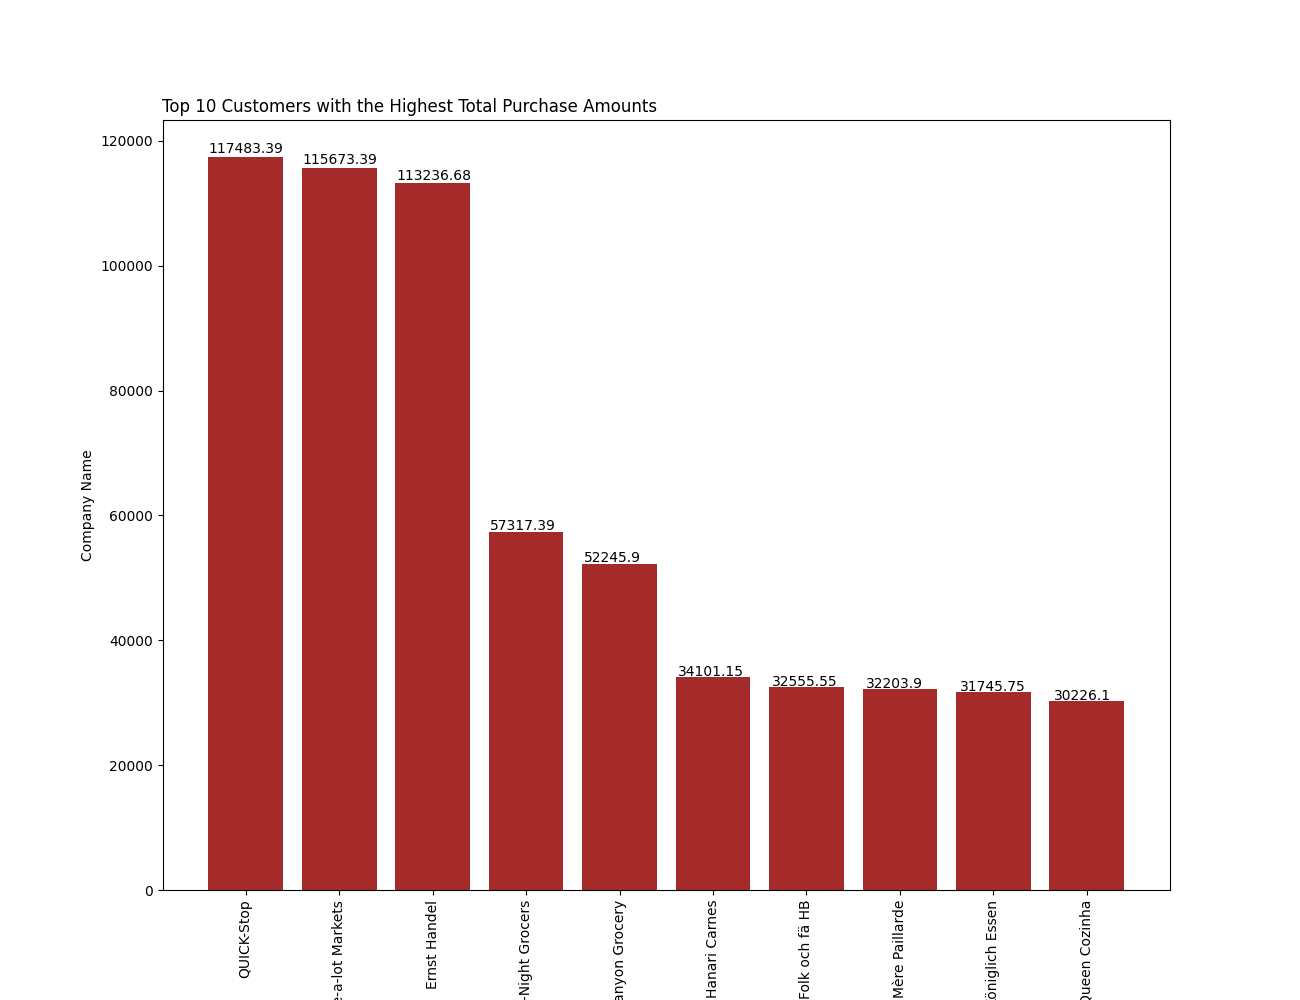
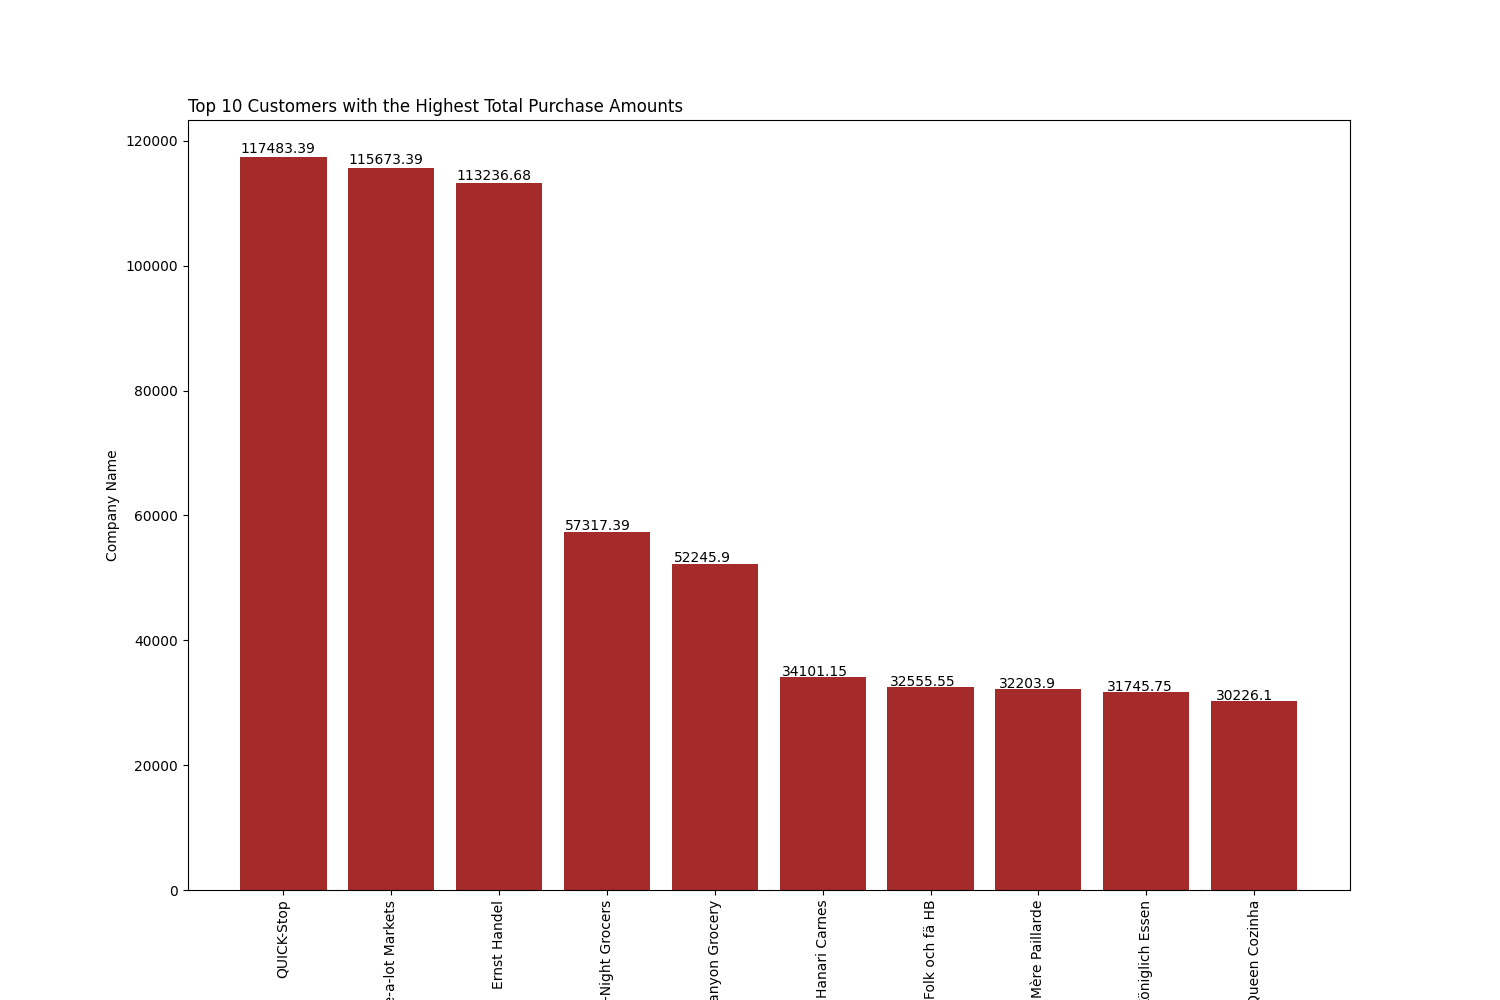
Commit Changes

diff --git a/test_main.py b/test_main.py
@@ -2,45 +2,33 @@
 Test goes here
 
 """
-from mylib.query import myquery, query
-from mylib.transform_load import myload, load
-from mylib.mydbconn import extract
+from mylib.query import query
+from mylib.mydbconn import setConn
 from main import main
+from pandas._testing import assert_frame_equal
 import unittest
 
 
 # load the data
-query_1 = query()
-query_2 = myquery()
+results = query()
+myConn = setConn()
+
 
 # test the data
 class TestMain(unittest.TestCase):
+    def test_conn(self):
+        # assert if the connection is set
+        self.assertEqual("Success", myConn[1])
+
     def test_col_exist(self):
         message = "column names does not exist"
         # assert if columns exist
-        assert {"Product Category", "Amount Sold"}.issubset(query_2.columns), message
-        # assert if columns exist
-        assert {
-            "general_name",
-            "count_products",
-            "ingred_FPro",
-            "avg_FPro_products",
-            "avg_distance_root",
-            "ingred_normalization_term",
-        }.issubset(query_1.columns), message
-
-    def test_sqlite_load(self):
-        # assert if the database is loaded
-        self.assertEqual(myload(), "GroceryDB.db")
-        self.assertEqual(load(), "GroceryDB.db")
-
-    def test_extract(self):
-        # assert if the data is extracted
-        self.assertEqual(extract(), "mylib/data/GroceryDB_IgFPro.csv")
+        assert {"companyname", "totalpurchaseamount"}.issubset(results.columns), message
 
     def test_main(self):
         # assert if the main function is running
         self.assertEqual(main(), "Success")
+
 
 if __name__ == "__main__":
     unittest.main()

diff --git a/main.py b/main.py
@@ -7,16 +7,18 @@ import matplotlib.pyplot as plt
 
 
 def main():
+    # Load data
     myresults = query()
 
     # Prepare and plot top sales by car make chart
-    fig, ax = plt.subplots(figsize=(13, 10))
-    
+    fig, ax = plt.subplots(figsize=(15, 10))
+
     ax.bar(
         myresults["companyname"],
         myresults["totalpurchaseamount"],
         color="brown",
     )
+
     # Add annotation to bars
     for p in ax.patches:
         ax.annotate(
@@ -24,16 +26,19 @@ def main():
             (p.get_x() * 1.005, p.get_height() * 1.005),
         )
 
+    # Set tick positions and labels
+    ax.set_xticks(range(len(myresults["companyname"])))
+    ax.set_xticklabels(myresults["companyname"], rotation=90, va="top")
+
     ax.set_title(
         "Top 10 Customers with the Highest Total Purchase Amounts",
         loc="left",
     )
     ax.set_xlabel("Total Purchase Amounts")
     ax.set_ylabel("Company Name")
-    ax.set_xticklabels(myresults["companyname"], rotation=90, va="top")
+
     plt.savefig("top.png")
     plt.show()
-    # print(myresults)
 
     return "Success"
 

diff --git a/mylib/mydbconn.py b/mylib/mydbconn.py
@@ -16,5 +16,5 @@ def setConn():
 
     conn_string = 'Driver={ODBC Driver 18 for SQL Server};Server='+SERVER+',1433;Database='+DATABASE+';Uid='+USERNAME+';Pwd='+PASSWORD+';Encrypt=yes;TrustServerCertificate=no;Connection Timeout=30;'
     myConn = odbc.connect(conn_string)
-    return myConn
+    return myConn, "Success"
 

diff --git a/mylib/query.py b/mylib/query.py
@@ -36,7 +36,7 @@ def query():
         TotalPurchaseAmount DESC;
 
     """
-    cursor = conn.cursor()
+    cursor = conn[0].cursor()
     cursor.execute(sql_query)
     data = cursor.fetchall()
     columns = [column[0] for column in cursor.description]

diff --git a/README.md b/README.md
@@ -1,29 +1,33 @@
-[![SQLite_Lab](https://github.com/nogibjj/oo46_sqlite-lab/actions/workflows/cicd.yml/badge.svg)][def]
+[![SQL_Lab](https://github.com/nogibjj/oo46_Mini_Proj_W6/actions/workflows/cicd.yml/badge.svg)][def]
 
-# SQLite Lab - Week 5 mini project
+# SQL Lab - Week 6 mini project
 
 ## The current implementation of the Mini-project can be executed as follows:
 
-1. All dependencies needed for execution can be found in the [requirement.txt](https://github.com/nogibjj/oo46_sqlite-lab/blob/main/requirements.txt) file.
+1. All dependencies needed for execution can be found in the [requirement.txt](https://github.com/nogibjj/oo46_Mini_Proj_W6/blob/main/requirements.txt) file.
 
-   - To run the application, simply run: make run / python main.py in your prefered terminal
 
-2. The main purpose of this application is to connect to an SQLite database and perform some basic sql queries.
+2. The main purpose of this application is to [connect](https://github.com/nogibjj/oo46_Mini_Proj_W6/blob/main/mylib/mydbconn.py) to an Azure Sql Server database (online) and perform some [complex sql query](https://github.com/nogibjj/oo46_Mini_Proj_W6/blob/main/mylib/query.py).
+
+   - The complex SQL query uses the Northwind database and retrieves the top N = 10 customers with the highest total purchase amounts. You can adjust the value of N as needed.
+   - In this query:
+
+     1. The RankedCustomers common table expression (CTE) calculates the total purchase amount for each customer by joining the Customers, Orders, and Order Details tables.
+
+     2. It then assigns a rank to each customer based on their total purchase amount using the ROW_NUMBER() window function.
+
+     3. The main query selects the top N customers with the highest total purchase amounts from the RankedCustomers CTE, where N is a parameter you can adjust.
+
+      This query will give you a list of the top N customers with the highest total purchase amounts in the Northwind database.
 
 ## Mini-project deliverables:
 
 ### Application output:
 
-![Output](output.png)
+![Output](top.png)
 
 ### Testing outcome:
 
 ![Test](test.png)
 
-### Github actions:
-
-![Gitactions](actions.png)
-
-![Gitaction](actions_1.png)
-
-[def]: https://github.com/nogibjj/oo46_sqlite-lab/actions/workflows/cicd.yml
+[def]: https://github.com/nogibjj/oo46_Mini_Proj_W6/actions/workflows/cicd.yml
